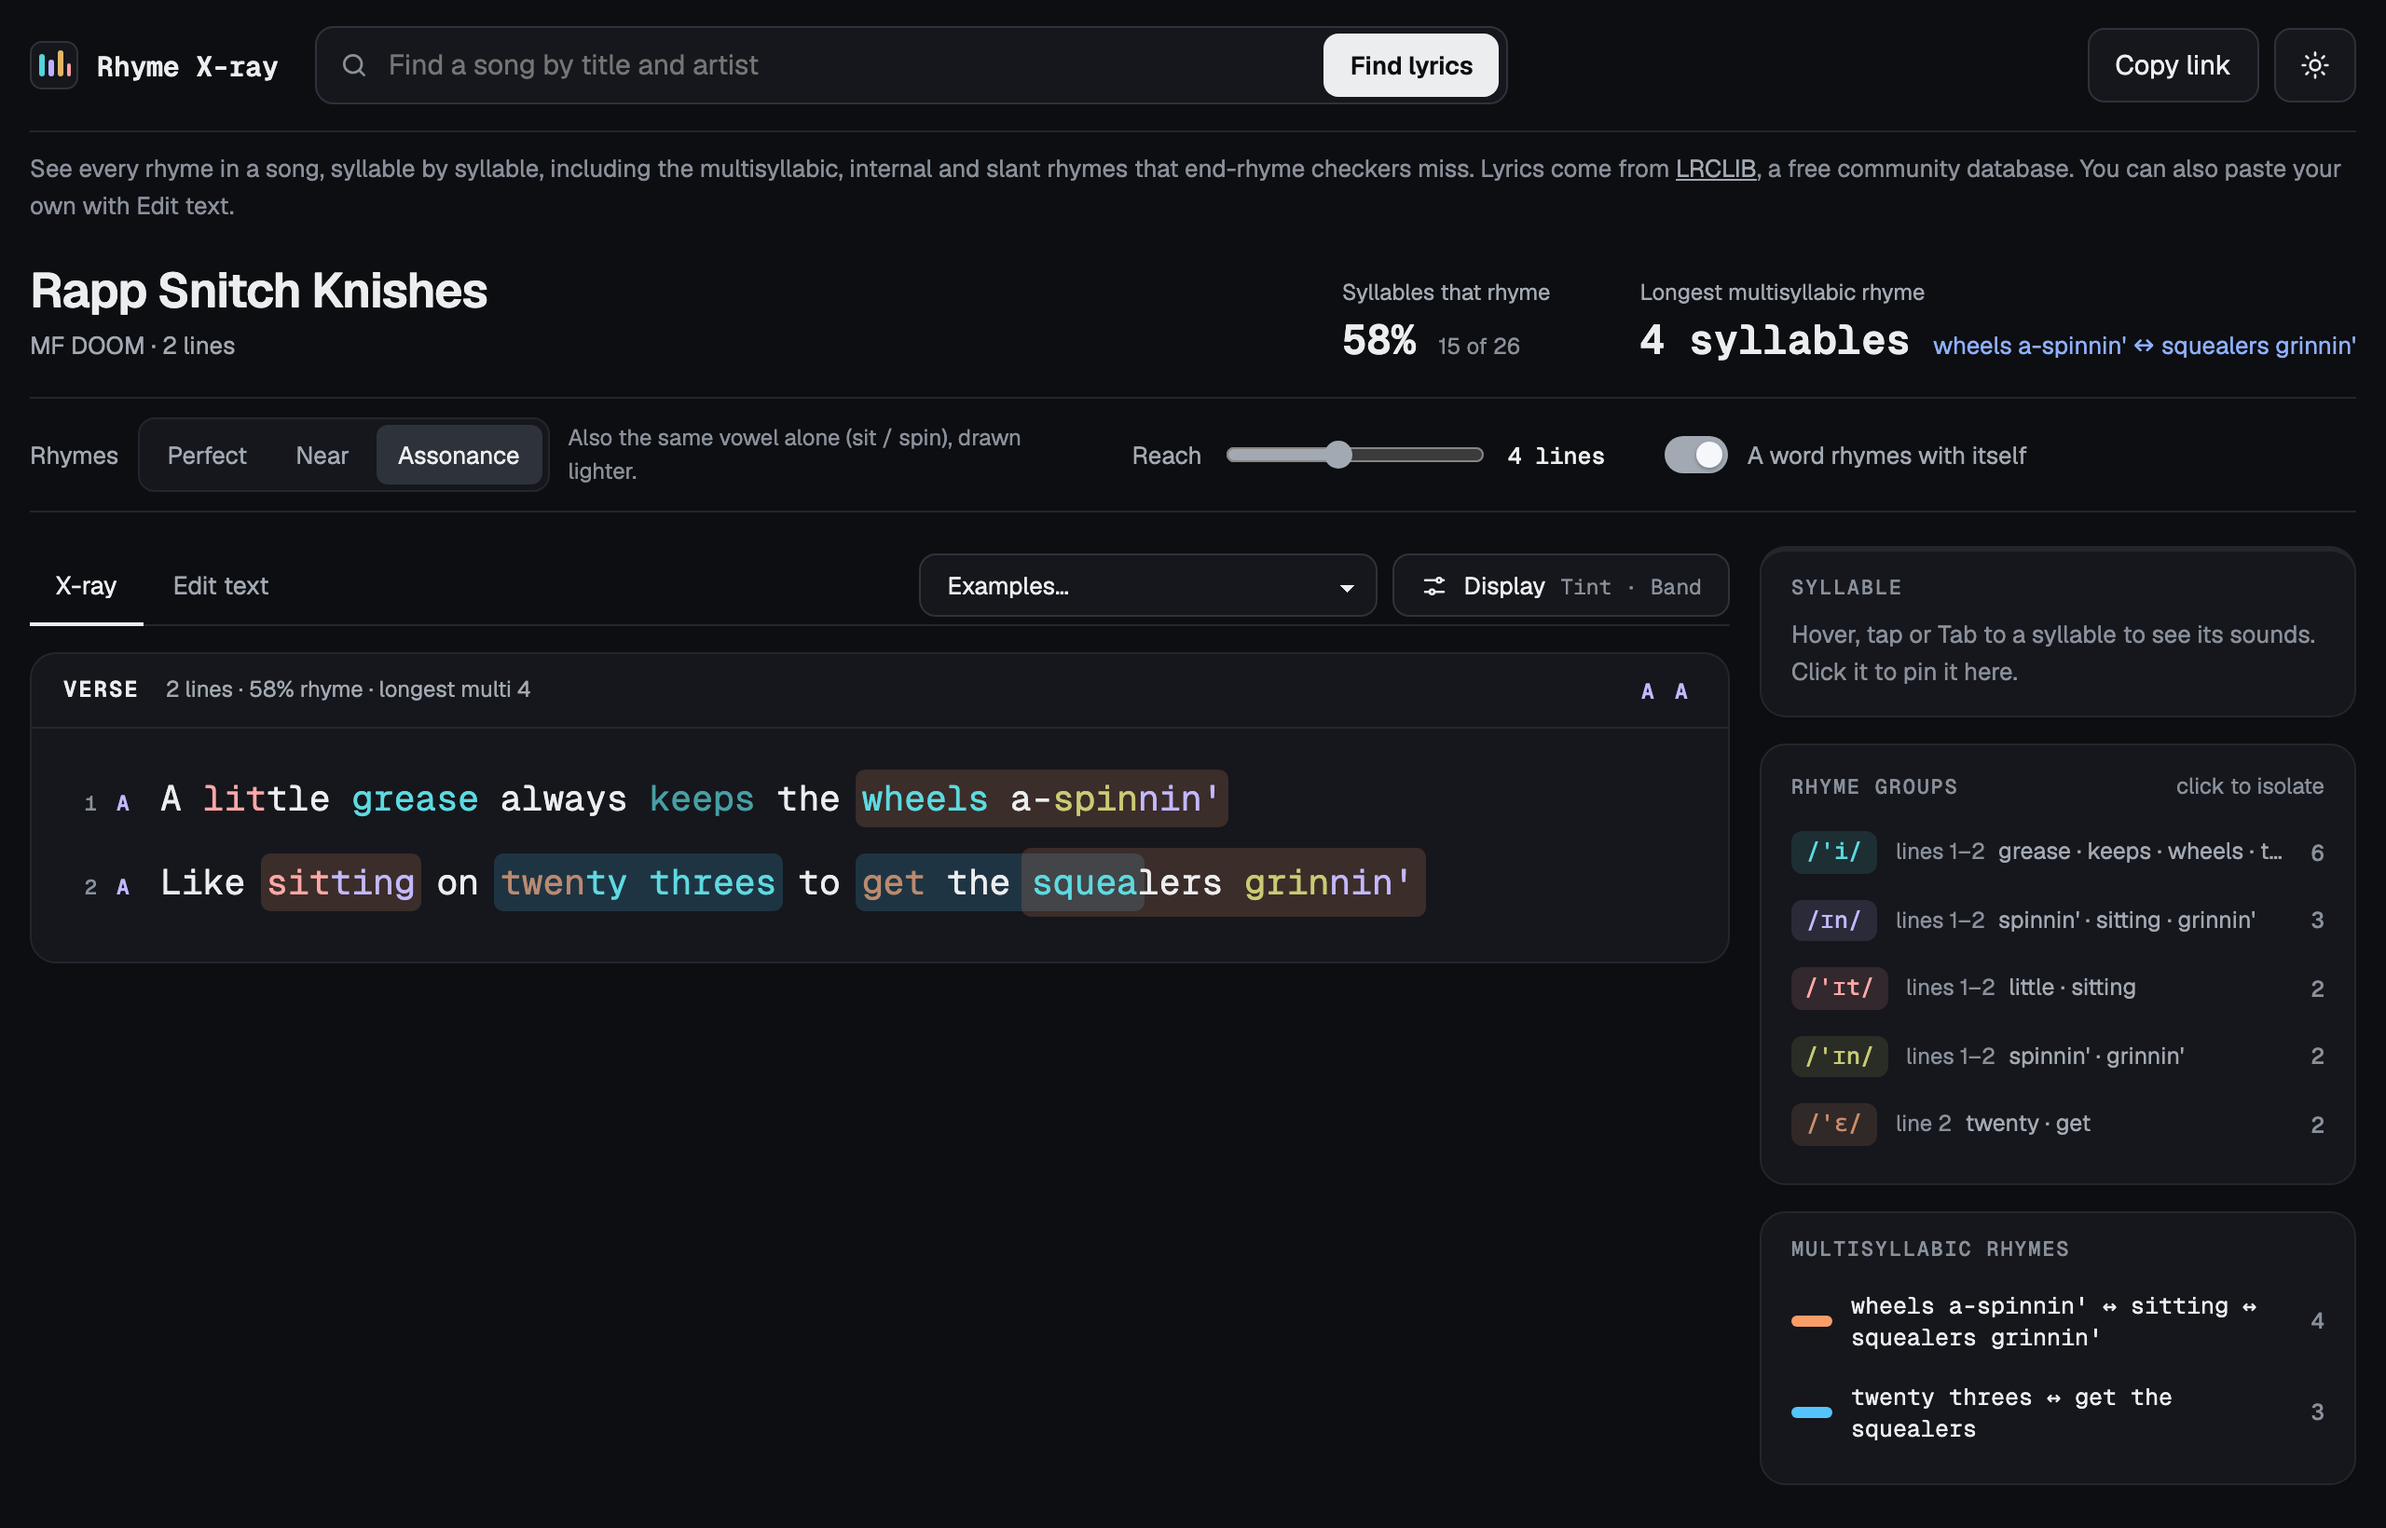
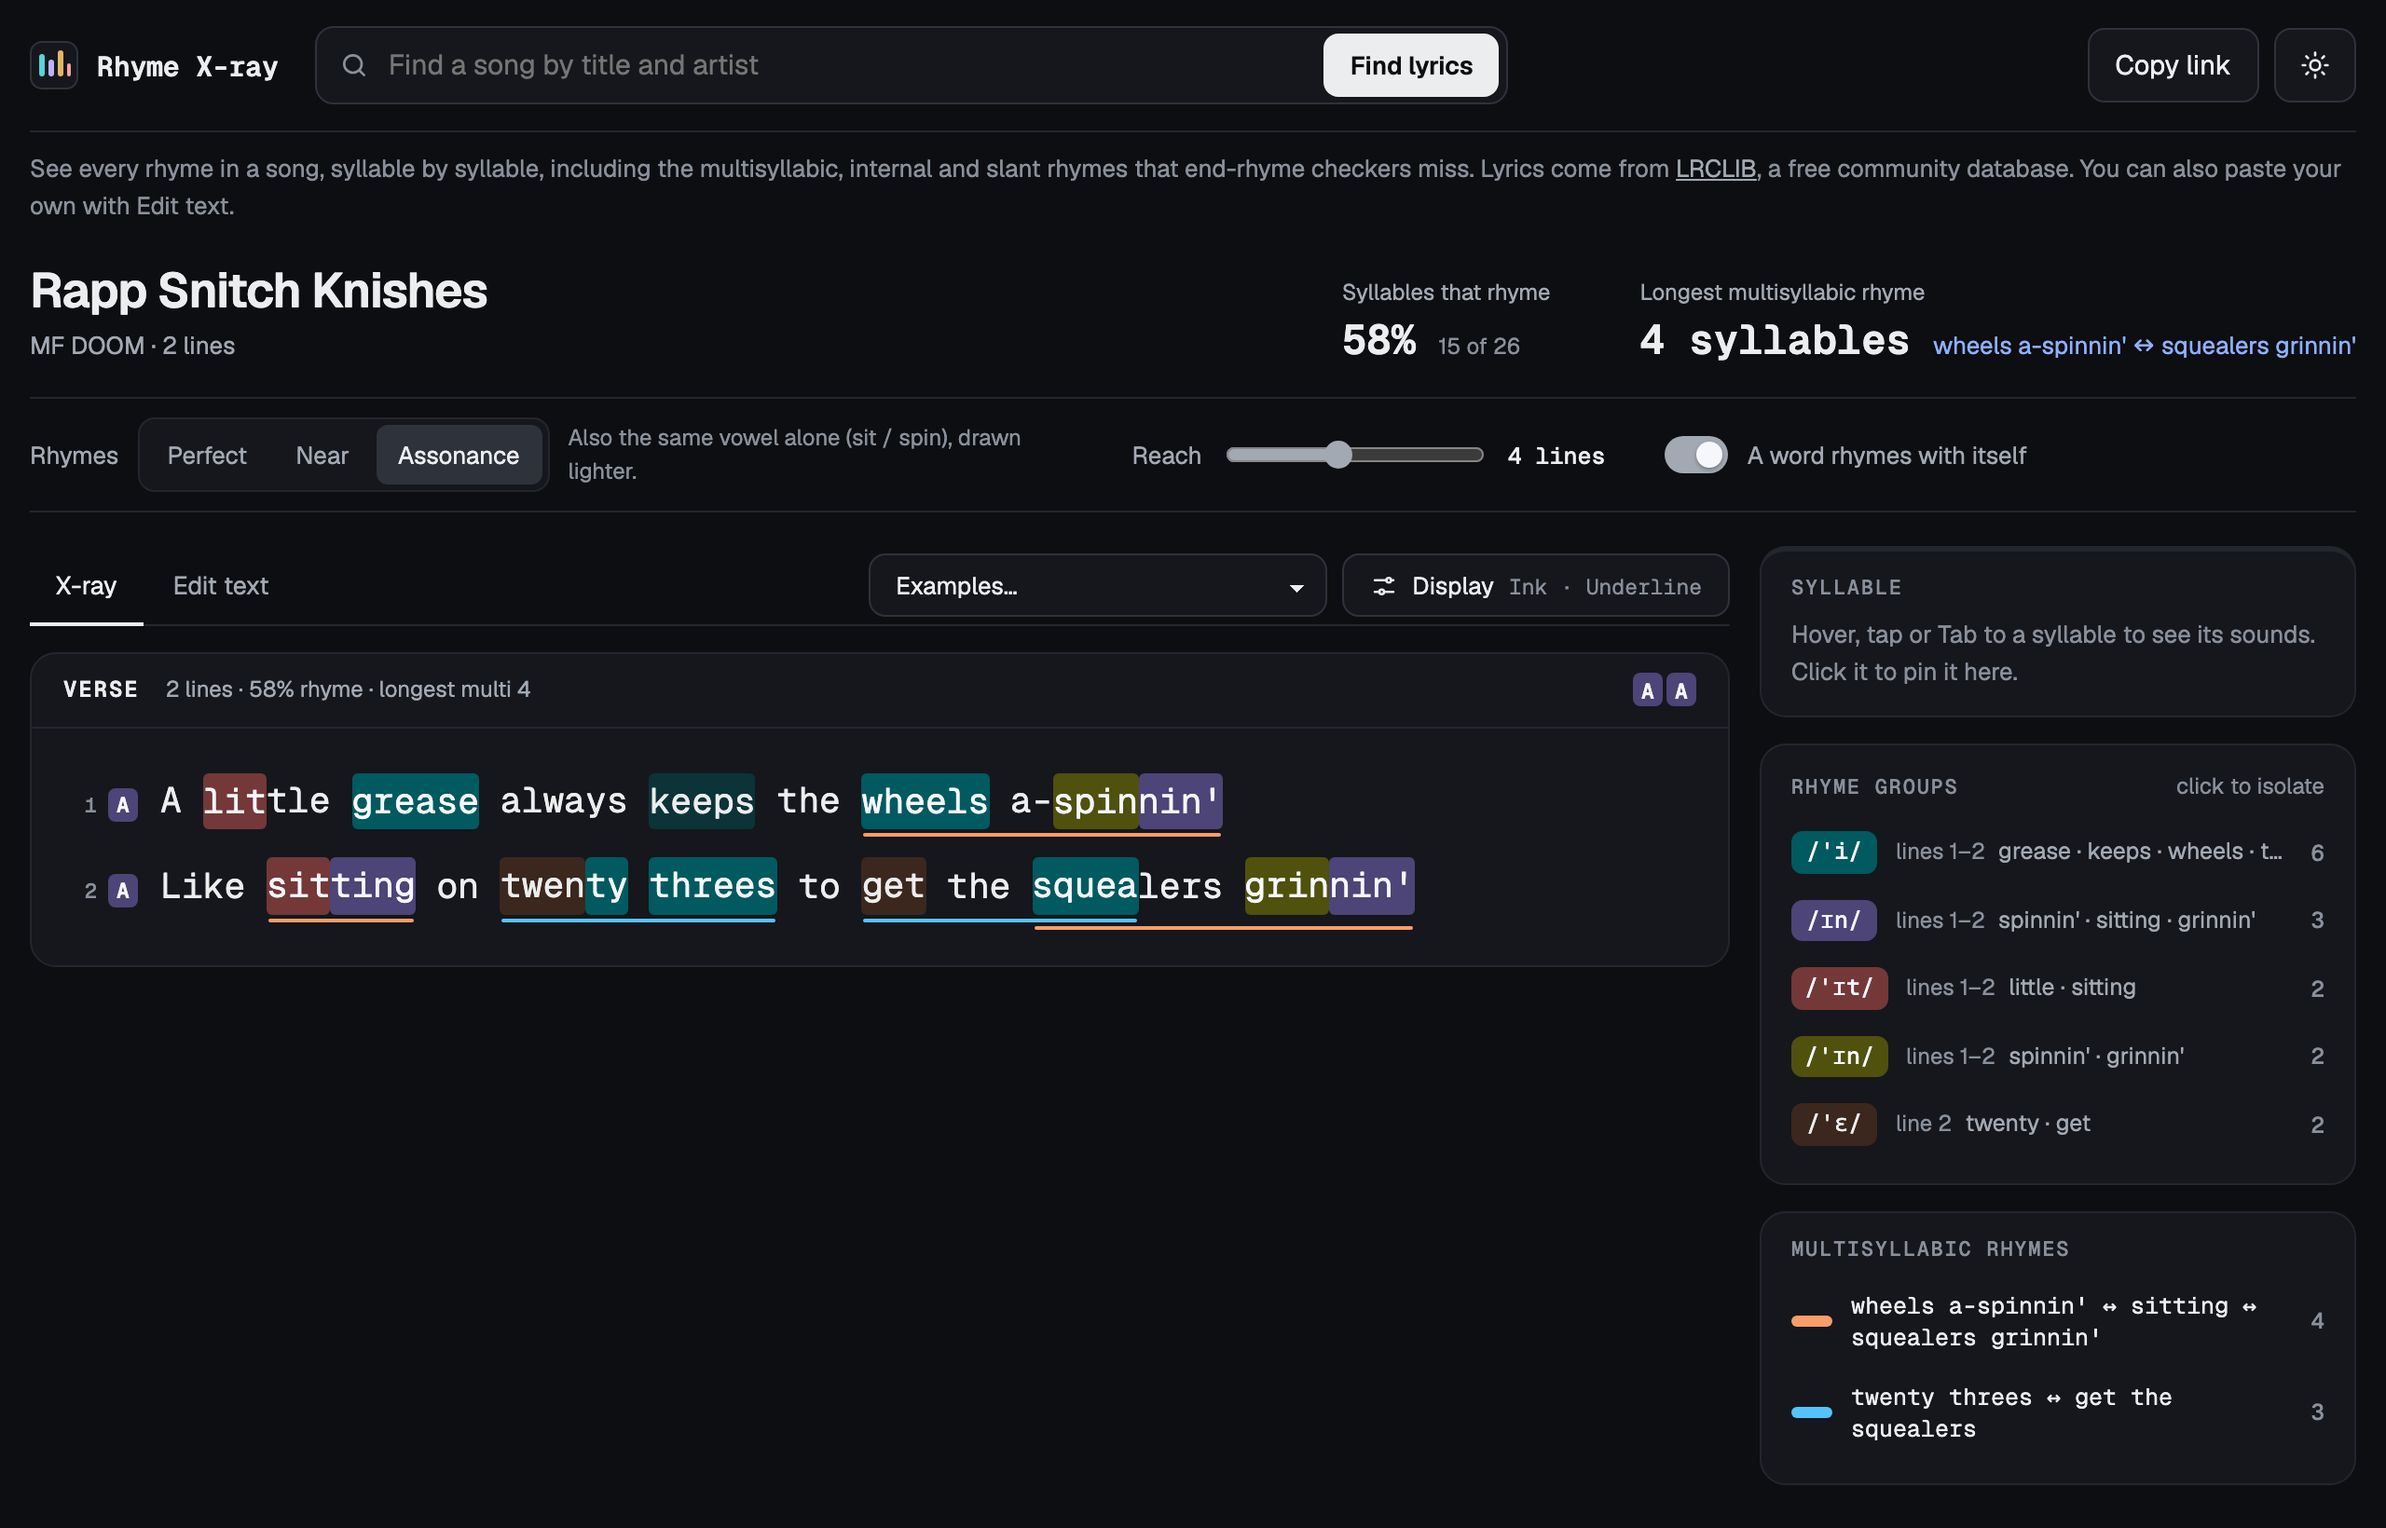
Default to Ink with underlines; make spacing fit every display
Ink chips and underlined multis are now the default display. Line
heights leave room for the most a line can carry (chip padding plus
three stacked underlines, or a band or outline on both neighbouring
lines), and the marks are sized in em of the verse text, so comfortable
and compact spacing no longer let one line's marks touch the next.

diff --git a/index.html b/index.html
@@ -253,12 +253,14 @@ input[type="range"] { accent-color: var(--ink-2); }
 .unfold { display: flex; align-items: center; gap: 10px; width: 100%; padding: 0 18px 14px; border: 0; background: none; color: var(--ink-2); font-size: 13px; text-align: left; cursor: pointer; }
 .unfold b { color: var(--accent); font-weight: 400; }
 .unfold svg { width: 14px; height: 14px; flex: none; }
-.lines { list-style: none; margin: 0; padding: 16px 18px 20px 8px; font: 19px/1 var(--f-mono); }
-:root[data-density="compact"] .lines { font-size: 15px; padding-block: 12px 16px; }
+/* Line height leaves room between two lines for the most a line can carry: Ink chip padding,
+   then up to three stacked underlines below, or a band or outline above and below. drawLanes
+   sizes those marks in the same em units, so nothing touches the next line at any setting. */
+.lines { list-style: none; margin: 0; padding: 16px 18px 20px 8px; font: 19px/1 var(--f-mono); --lh: 2.4; --chip-pad: .14em; }
+:root[data-density="compact"] .lines { font-size: 15px; padding-block: 12px 16px; --lh: 2.15; --chip-pad: .08em; }
 .ln { display: grid; grid-template-columns: 62px minmax(0, 1fr); align-items: baseline; }
 .gut { display: flex; justify-content: flex-end; align-items: baseline; gap: 6px; padding-right: 12px; font: 500 11px/1 var(--f-mono); color: var(--ink-3); user-select: none; }
-.txt { white-space: pre-wrap; overflow-wrap: anywhere; line-height: 2.35; min-width: 0; }
-:root[data-density="compact"] .txt { line-height: 1.95; }
+.txt { white-space: pre-wrap; overflow-wrap: anywhere; line-height: var(--lh); min-width: 0; }
 
 /* rhyme colours: Text tint colours the letters; Ink sets them on dark chips */
 .syl { border-radius: 3px; transition: opacity .15s ease, box-shadow .15s ease; -webkit-box-decoration-break: clone; box-decoration-break: clone; }
@@ -266,7 +268,7 @@ input[type="range"] { accent-color: var(--ink-2); }
 .syl:focus-visible { outline: 2px solid var(--accent); outline-offset: 2px; }
 .syl.g { cursor: pointer; color: oklch(calc(var(--tint-l) + var(--dl, 0)) var(--tint-c) var(--h)); }
 .syl.g.soft { color: oklch(calc(var(--tint-l) + var(--dl, 0)) var(--tint-c) var(--h) / .7); }
-:root[data-colours="ink"] .syl.g { color: var(--on-chip); background: oklch(calc(var(--chip-l) + var(--dl, 0)) var(--chip-c) var(--h)); padding: 3px 0; }
+:root[data-colours="ink"] .syl.g { color: var(--on-chip); background: oklch(calc(var(--chip-l) + var(--dl, 0)) var(--chip-c) var(--h)); padding: var(--chip-pad, .15em) 0; }
 :root[data-colours="ink"] .syl.g.soft { color: var(--ink); background: oklch(calc(var(--chip-l) + var(--dl, 0)) var(--chip-c) var(--h) / .42); }
 .w.guess { text-decoration: underline dotted var(--ink-3); text-decoration-thickness: 1.5px; text-underline-offset: 4px; }
 .sch {
@@ -477,7 +479,6 @@ kbd { font: 11.5px var(--f-mono); padding: 1px 5px; border: 1px solid var(--rule
   .songhead { padding-top: 18px; }
   .songhead h2 { font-size: 22px; }
   .lines { font-size: 15.5px; padding: 12px 12px 16px 2px; }
-  .txt { line-height: 2.15; }
   .ln { grid-template-columns: 36px minmax(0, 1fr); }
   .gut .num { display: none; }
   .gut { padding-right: 8px; }
@@ -737,7 +738,7 @@ Like sitting on twenty threes to get the squealers grinnin'</textarea>
         <div class="explain">
           <p>A multisyllabic rhyme is two runs of syllables whose rhyme parts match position by position, across word boundaries. Malmi et al. measure rhyme the same way, as the longest matching vowel sequence.</p>
           <p>A run starts on a stressed syllable on both sides. Stressed positions must match at the chosen category, and two unstressed schwas may stand in for each other. One weak syllable in the middle may break the pattern, because performers swallow those. A run needs at least two positions that carry the rhyme, and repeating the same words doesn't count.</p>
-          <p>Each multisyllabic rhyme gets a colour of its own, separate from the syllable colours, and is drawn as one unit: a band behind it, or an underline or outline if you pick one under Display. Back-to-back repeats of a pattern on one line merge into one.</p>
+          <p>Each multisyllabic rhyme gets a colour of its own, separate from the syllable colours, and is drawn as one unit: underlined, or with a band or outline if you pick one under Display. Back-to-back repeats of a pattern on one line merge into one.</p>
         </div>
         <div class="demo" id="demo-multi"></div>
       </div>
@@ -826,7 +827,7 @@ Like sitting on twenty threes to get the squealers grinnin'</textarea>
   const state = {
     ready: false,
     tier: 2, identical: true, reach: 4,
-    colours: 'tint', multis: 'band', density: 'comfortable',
+    colours: 'ink', multis: 'line', density: 'comfortable',
     A: null,
     pinned: null, // { kind: 'group' | 'multi', id }
     cur: 0, // the section being read; the rail lists follow it
@@ -1120,6 +1121,12 @@ Like sitting on twenty threes to get the squealers grinnin'</textarea>
     }
   }
 
+  // Sizes of the multisyllabic marks, in em of the verse text. The line heights in the CSS
+  // (--lh) leave room for three lanes of either kind; change them together.
+  const LANE_EM = {
+    comfortable: { off: 0.12, step: 0.22, pad: 0.12, padStep: 0.1 },
+    compact: { off: 0.08, step: 0.18, pad: 0.08, padStep: 0.08 }
+  };
   // Multisyllabic rhymes, drawn behind the text (band), under it (underline) or around it
   // (outline), one shape per visual row of a span. Overlapping spans step out by lane.
   function drawLanes() {
@@ -1128,6 +1135,9 @@ Like sitting on twenty threes to get the squealers grinnin'</textarea>
     if (!A || card.classList.contains('editing') || state.multis === 'none') return;
     const mode = state.multis;
     const base = stage.getBoundingClientRect();
+    const linesEl = lyric.querySelector('.lines');
+    const em = linesEl ? parseFloat(getComputedStyle(linesEl).fontSize) : 19;
+    const G = LANE_EM[state.density];
     const frag = document.createDocumentFragment();
     const byId = new Map();
     lyric.querySelectorAll('[data-sid]').forEach(el => byId.set(+el.dataset.sid, el));
@@ -1155,9 +1165,9 @@ Like sitting on twenty threes to get the squealers grinnin'</textarea>
         if (mode === 'line') {
           d.style.left = (row.l - base.left + 1) + 'px';
           d.style.width = Math.max(6, row.r - row.l - 2) + 'px';
-          d.style.top = (row.b - base.top + 3 + sp.lane * 5) + 'px';
+          d.style.top = (row.b - base.top + (G.off + sp.lane * G.step) * em) + 'px';
         } else {
-          const pad = 3 + sp.lane * 3;
+          const pad = (G.pad + sp.lane * G.padStep) * em;
           d.style.left = (row.l - base.left - pad) + 'px';
           d.style.width = (row.r - row.l + 2 * pad) + 'px';
           d.style.top = (row.t - base.top - pad) + 'px';

diff --git a/README.md b/README.md
@@ -44,9 +44,10 @@ every word is guessed from its spelling instead and results get rougher.
   window they open in a card over the syllable instead.
 - Click a syllable (or press Enter on it) to pin its details, then select any of the text
   to copy. Esc, the × or a click elsewhere lets go.
-- **Display** sets how rhymes are drawn: **Text tint** colours the letters, **Ink** sets
-  them on coloured chips; multisyllabic rhymes show as a band, an underline, an outline or
-  not at all; spacing is comfortable or compact. The page is dark by default and the
+- **Display** sets how rhymes are drawn: **Ink** sets syllables on coloured chips, **Text
+  tint** colours the letters instead; multisyllabic rhymes show as an underline, a band, an
+  outline or not at all; spacing is comfortable or compact. The default is Ink with
+  underlines. The page is dark by default and the
   sun/moon button switches theme. Your browser remembers these choices.
 - **How Rhyme X-ray works**, below the verse, explains the eight steps one dropdown at a
   time. Each step shows, beside the rule, what it did to the verse on screen: the IPA
@@ -67,9 +68,9 @@ Reading the colours:
 
 | Mark | Meaning |
 | --- | --- |
-| Coloured letters (Text tint) or chip (Ink) | perfect or near rhyme with another syllable of the same colour |
+| Coloured chip (Ink) or coloured letters (Text tint) | perfect or near rhyme with another syllable of the same colour |
 | Fainter colour | linked by vowel only (assonance) |
-| Band (or underline / outline) | a multisyllabic rhyme; every part of one shares its own colour |
+| Underline (or band / outline) | a multisyllabic rhyme; every part of one shares its own colour |
 | Dotted underline | a word not in the dictionary; its sounds were guessed from the spelling |
 | Letter beside the line number | the end-rhyme scheme, coloured like the rhyme it stands for (A, B, …; `x` = the line ending does not rhyme) |
 
